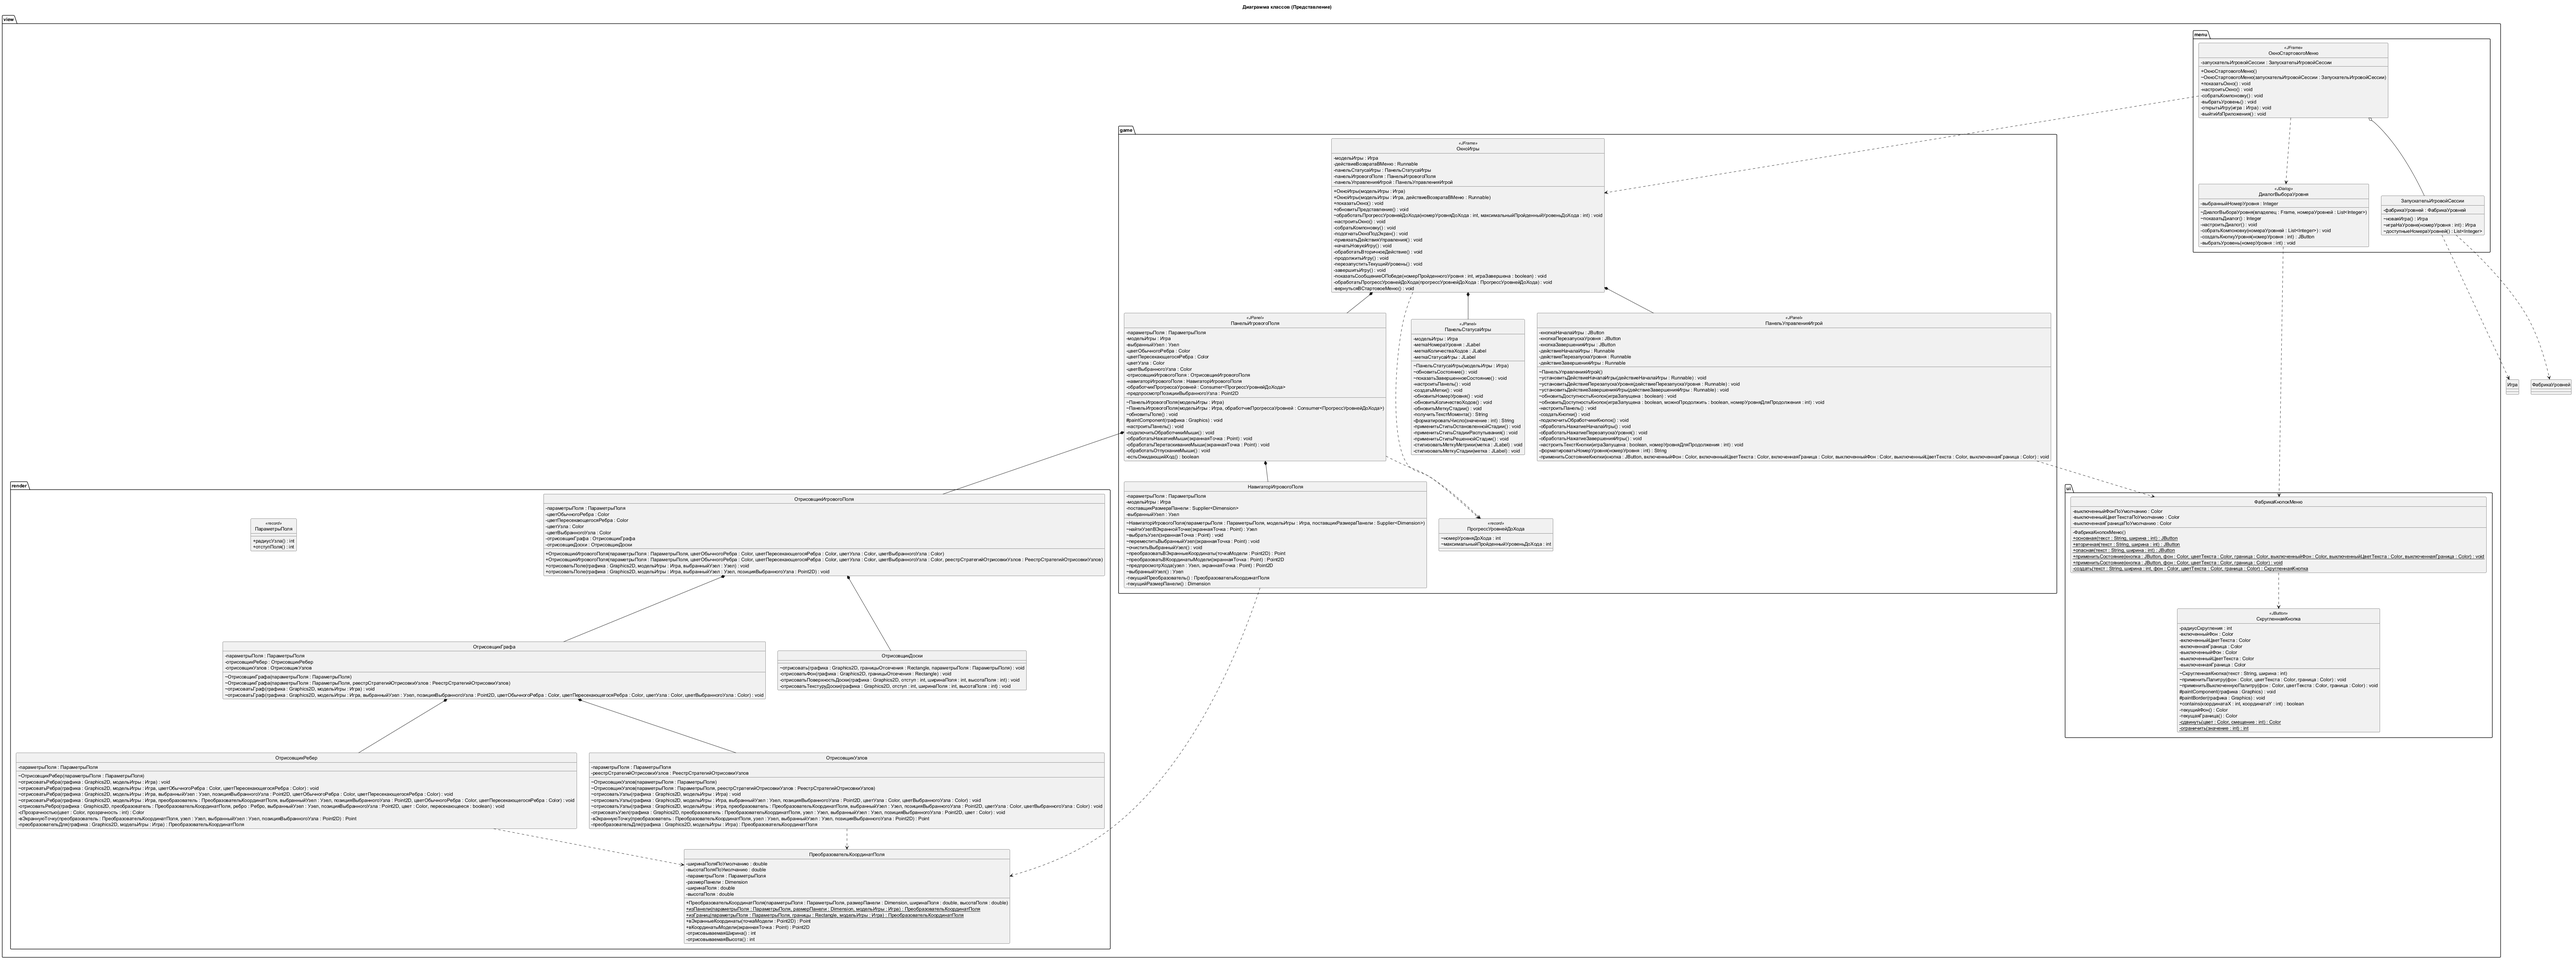
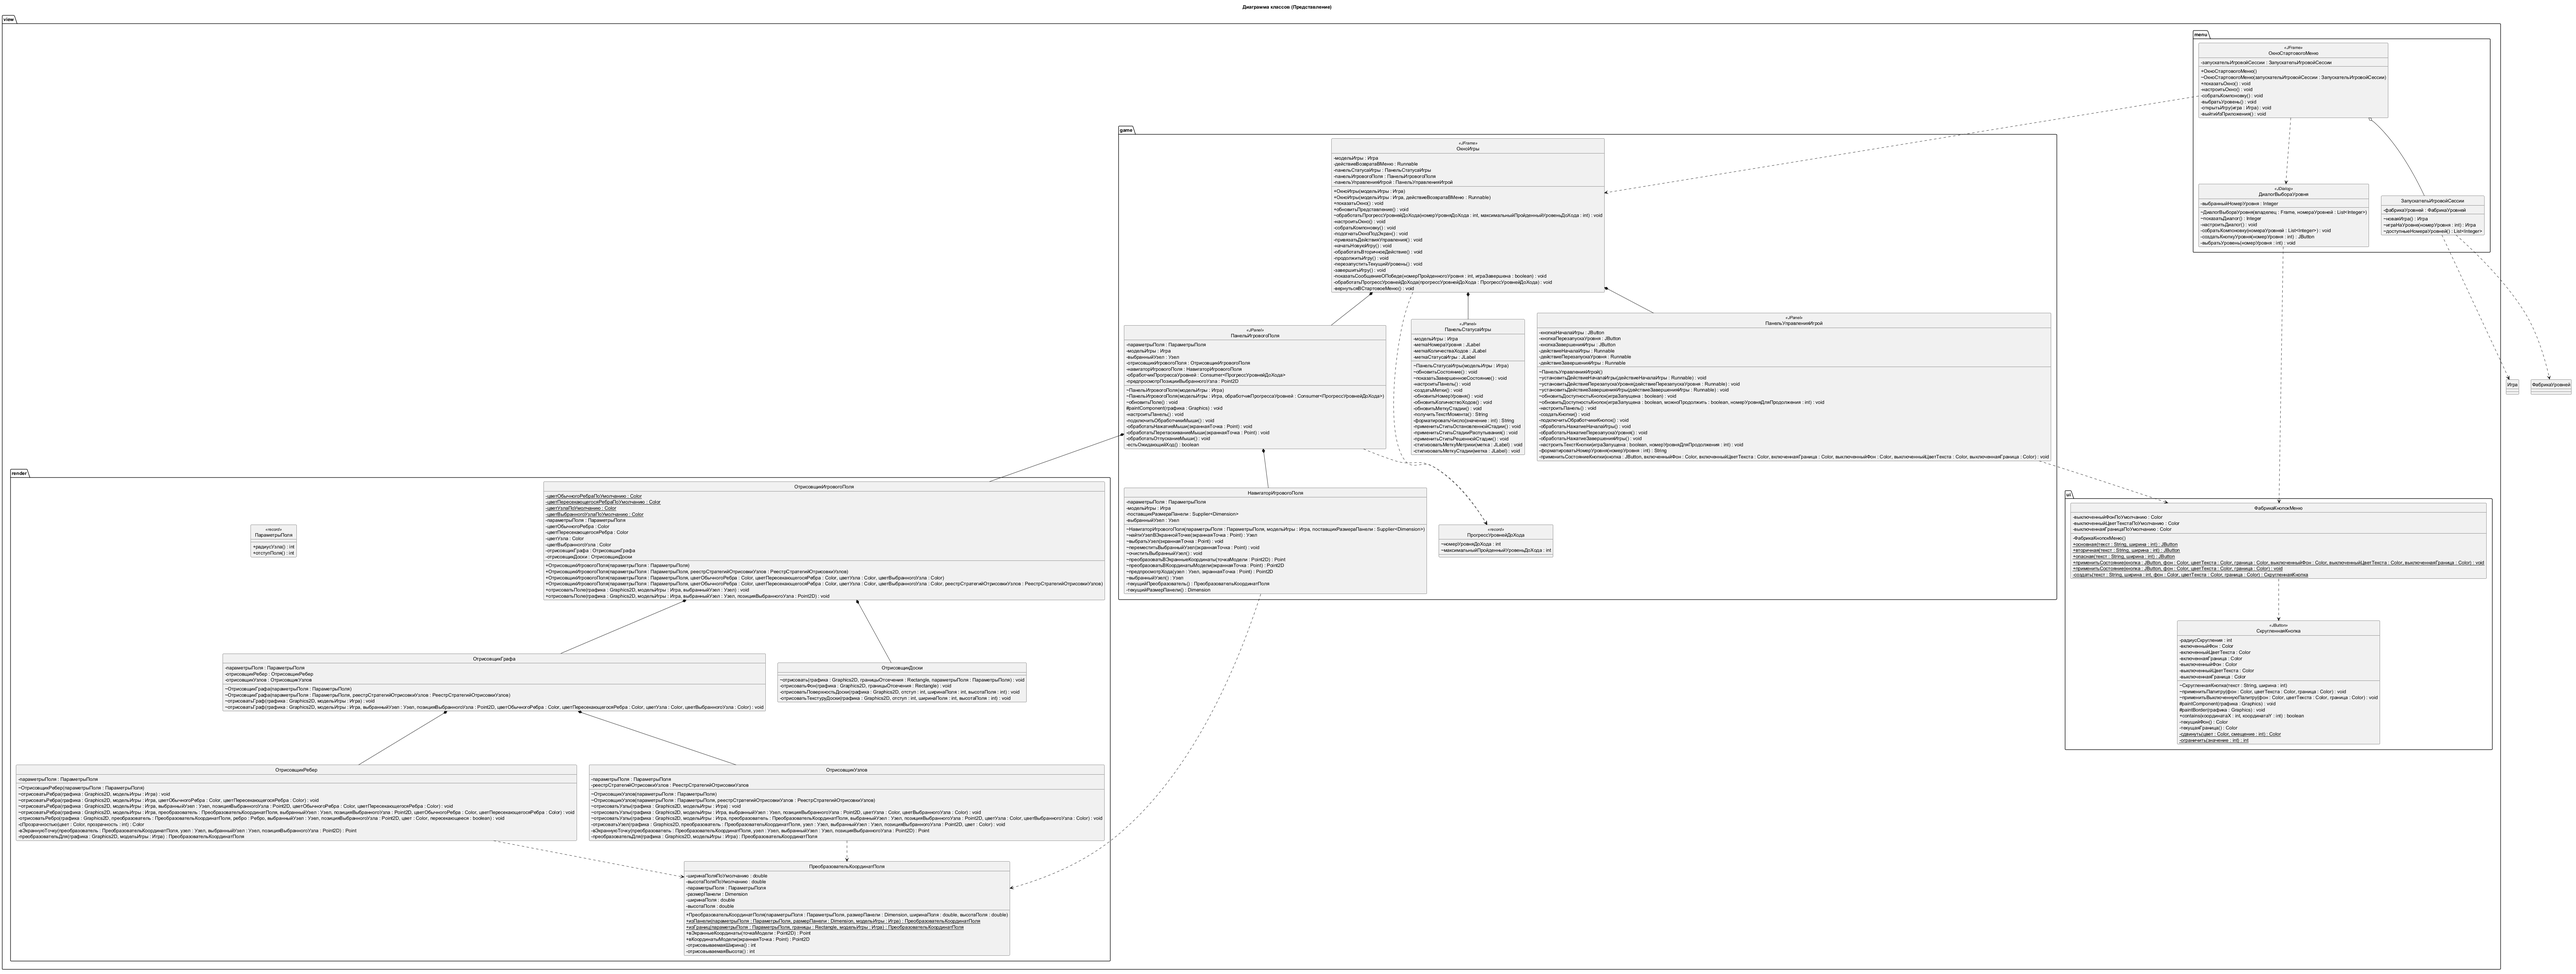
[view] Перенесена палитра поля в отрисовщик

diff --git a/src/view/render/GameFieldRenderer.java b/src/view/render/GameFieldRenderer.java
@@ -12,6 +12,11 @@ import java.awt.RenderingHints;
 import java.util.Objects;
 
 public final class GameFieldRenderer {
+    private static final Color DEFAULT_NORMAL_EDGE_COLOR = new Color(106, 126, 152);
+    private static final Color DEFAULT_INTERSECTING_EDGE_COLOR = new Color(226, 97, 76);
+    private static final Color DEFAULT_NODE_COLOR = new Color(74, 163, 180);
+    private static final Color DEFAULT_SELECTED_NODE_COLOR = new Color(243, 188, 65);
+
     private final FieldParameters fieldParameters;
     private final Color normalEdgeColor;
     private final Color intersectingEdgeColor;
@@ -19,6 +24,24 @@ public final class GameFieldRenderer {
     private final Color selectedNodeColor;
     private final GraphRenderer graphRenderer;
     private final BoardRenderer boardRenderer;
+
+    public GameFieldRenderer(FieldParameters fieldParameters) {
+        this(fieldParameters, NodeRenderStrategyRegistry.createDefault());
+    }
+
+    public GameFieldRenderer(
+            FieldParameters fieldParameters,
+            NodeRenderStrategyRegistry nodeRenderStrategyRegistry
+    ) {
+        this(
+                fieldParameters,
+                DEFAULT_NORMAL_EDGE_COLOR,
+                DEFAULT_INTERSECTING_EDGE_COLOR,
+                DEFAULT_NODE_COLOR,
+                DEFAULT_SELECTED_NODE_COLOR,
+                nodeRenderStrategyRegistry
+        );
+    }
 
     public GameFieldRenderer(
             FieldParameters fieldParameters,
@@ -50,7 +73,10 @@ public final class GameFieldRenderer {
         this.intersectingEdgeColor = Objects.requireNonNull(intersectingEdgeColor, "intersectingEdgeColor");
         this.nodeColor = Objects.requireNonNull(nodeColor, "nodeColor");
         this.selectedNodeColor = Objects.requireNonNull(selectedNodeColor, "selectedNodeColor");
-        graphRenderer = new GraphRenderer(fieldParameters, nodeRenderStrategyRegistry);
+        graphRenderer = new GraphRenderer(
+                fieldParameters,
+                Objects.requireNonNull(nodeRenderStrategyRegistry, "nodeRenderStrategyRegistry")
+        );
         boardRenderer = new BoardRenderer();
     }
 

diff --git a/src/view/game/GameFieldPanel.java b/src/view/game/GameFieldPanel.java
@@ -24,10 +24,6 @@ final class GameFieldPanel extends JPanel {
     private final FieldParameters fieldParameters;
     private final Game gameModel;
     private Node selectedNode;
-    private final Color normalEdgeColor;
-    private final Color intersectingEdgeColor;
-    private final Color nodeColor;
-    private final Color selectedNodeColor;
     private final GameFieldRenderer gameFieldRenderer;
     private final GameFieldNavigator gameFieldNavigator;
     private final Consumer<LevelProgressBeforeMove> levelProgressHandler;
@@ -42,17 +38,7 @@ final class GameFieldPanel extends JPanel {
         this.gameModel = Objects.requireNonNull(gameModel, "gameModel");
         this.levelProgressHandler = Objects.requireNonNull(levelProgressHandler, "levelProgressHandler");
         fieldParameters = new FieldParameters(12, 28);
-        normalEdgeColor = new Color(106, 126, 152);
-        intersectingEdgeColor = new Color(226, 97, 76);
-        nodeColor = new Color(74, 163, 180);
-        selectedNodeColor = new Color(243, 188, 65);
-        gameFieldRenderer = new GameFieldRenderer(
-                fieldParameters,
-                normalEdgeColor,
-                intersectingEdgeColor,
-                nodeColor,
-                selectedNodeColor
-        );
+        gameFieldRenderer = new GameFieldRenderer(fieldParameters);
         gameFieldNavigator = new GameFieldNavigator(fieldParameters, gameModel, this::getSize);
         configurePanel();
         attachMouseHandlers();

diff --git a/test/view/render/GameFieldRendererTest.java b/test/view/render/GameFieldRendererTest.java
@@ -61,7 +61,16 @@ class GameFieldRendererTest {
     @Test
     @DisplayName("Рендерер поля не принимает пустые параметры поля")
     void rejectsNullFieldParameters() {
+        assertThrows(NullPointerException.class, () -> new GameFieldRenderer(null));
         assertThrows(NullPointerException.class, () -> new GameFieldRenderer(null, Color.BLACK, Color.RED, Color.BLUE, Color.ORANGE));
+    }
+
+    @Test
+    @DisplayName("Рендерер поля не принимает пустой реестр стратегий отрисовки")
+    void rejectsNullNodeRenderStrategyRegistry() {
+        FieldParameters parameters = new FieldParameters(12, 28);
+
+        assertThrows(NullPointerException.class, () -> new GameFieldRenderer(parameters, null));
     }
 
     @Test
